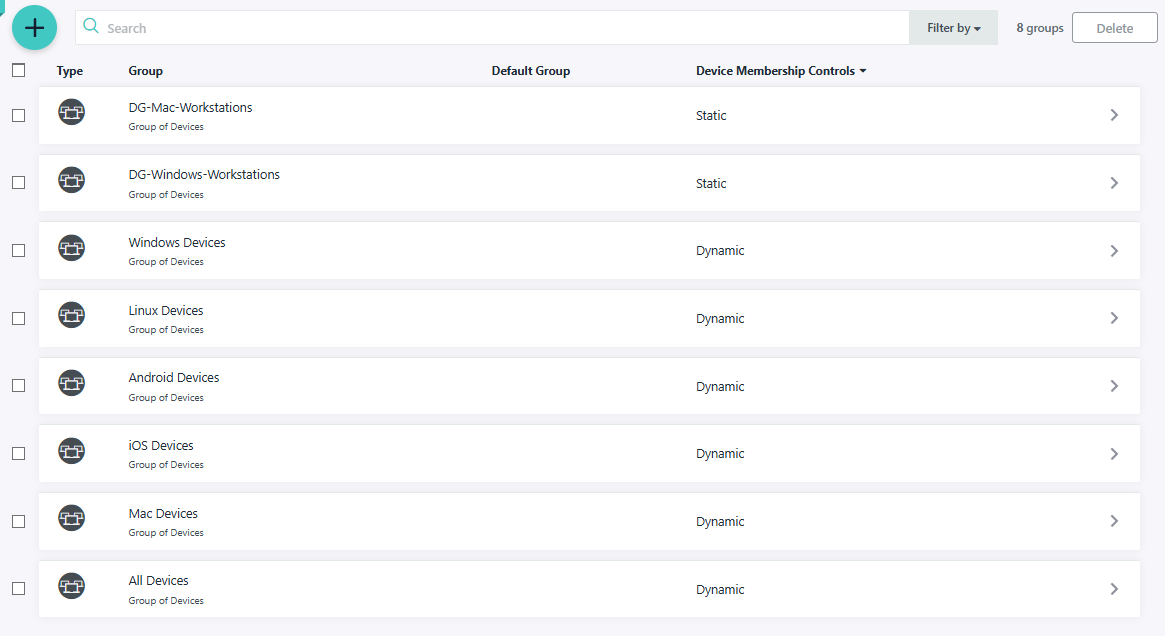
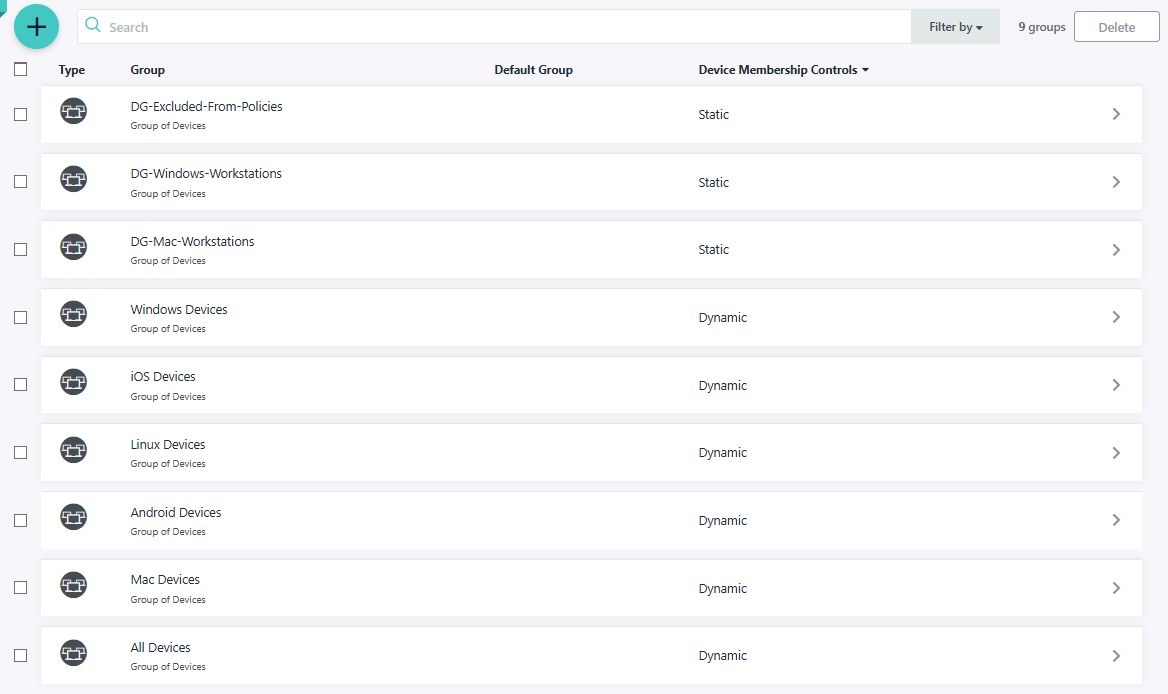
Update device groups baseline

diff --git a/02-device-management/device-groups/README.md b/02-device-management/device-groups/README.md
@@ -15,6 +15,8 @@ Create a predictable device grouping model for scope-based policy assignment, re
 - **Why static groups for workstations:**
   - predictable scoping for policies and commands
   - mirrors typical enterprise operational model (explicit target groups)
+- **Exclusion model (custom):**
+  - `DG-Excluded-From-Policies` — explicit “exclude bucket” for devices that must not receive baseline policies (lab/test/breakglass devices)
 
 ---
 
@@ -22,8 +24,9 @@ Create a predictable device grouping model for scope-based policy assignment, re
 1. Reviewed the built-in **Dynamic** device groups created by JumpCloud.
 2. Created custom **Static** device groups:
    - `DG-Windows-Workstations`
-   - `DG-Mac-Workstations` (prepared for future macOS enrollment)
-3. Verified in **Device Groups** list that:
+   - `DG-Mac-Workstations` *(prepared for future macOS enrollment and policy scoping)*
+   - `DG-Excluded-From-Policies` *(centralized exclusion target for safe testing / exception handling)*
+3. Verified in **Device Management** → **Device Groups** list that:
    - groups are present
    - **Device Membership Controls** reflect the intended type (**Static** for `DG-*`, **Dynamic** for built-ins)
 
@@ -32,11 +35,10 @@ Create a predictable device grouping model for scope-based policy assignment, re
 ## Evidence
 1. **Device groups list (baseline + custom groups visible, including membership type)**
    - `screenshots/01-device-groups-overview.png`
-   - `screenshots/02-device-groups-custom-workstations.png`
 
 > Evidence is intentionally minimal and focuses on: **scope/targeting**, **control configuration**, and **validation (success)**.
 
 ---
 
 ## Result
-A clean device-group baseline is in place: built-in **Dynamic** platform groups for automatic inventory + custom **Static** workstation groups for predictable, enterprise-style scoping.
+A clean device-group baseline is in place: built-in **Dynamic** platform groups for automatic inventory + custom **Static** workstation and exclusion groups for predictable, enterprise-style scoping and safe exception management.
